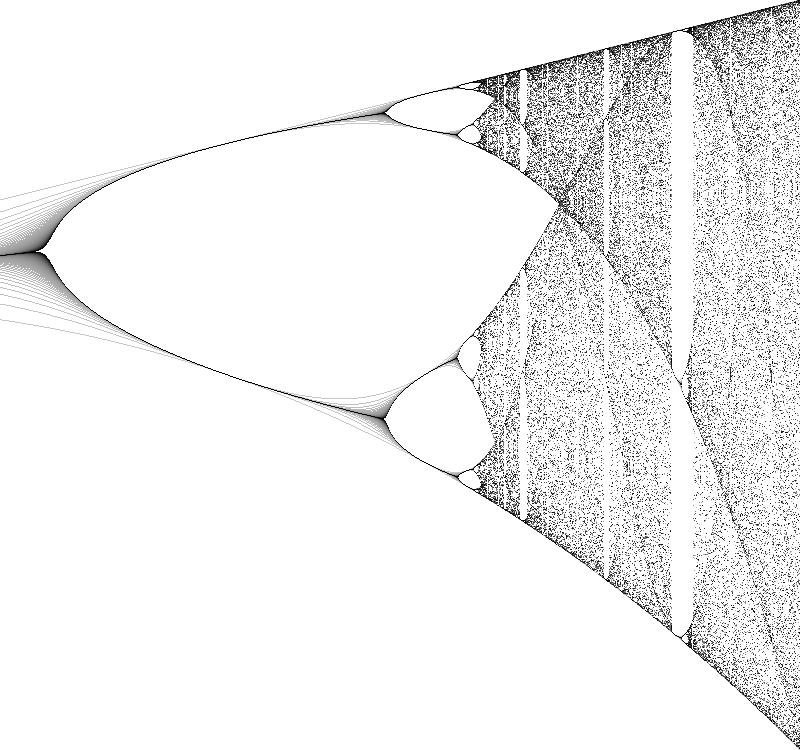
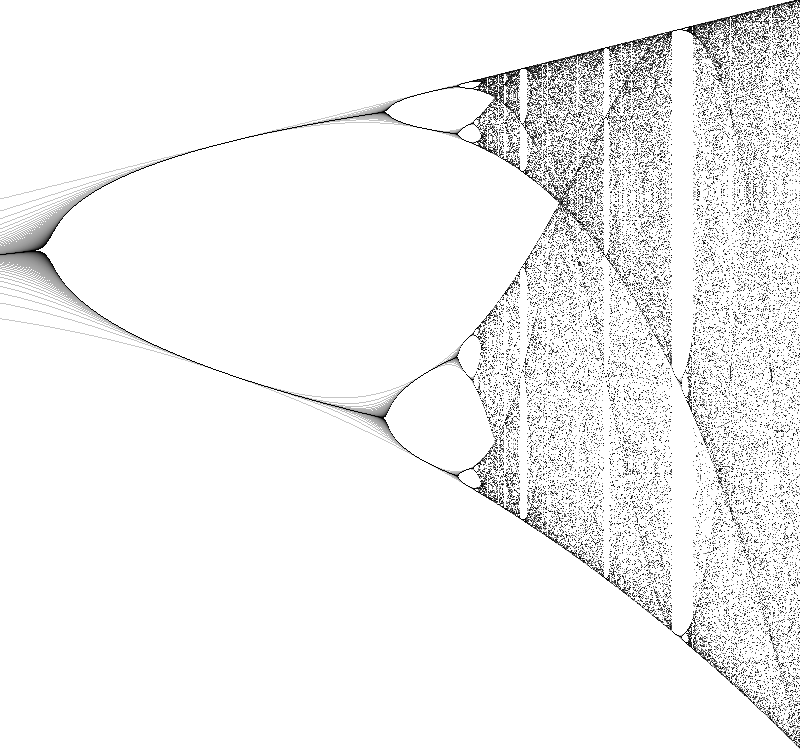
Rewrite logistic_map to py3

diff --git a/renderings/logistic_map/gen.py b/renderings/logistic_map/gen.py
@@ -1,14 +1,14 @@
 #!/usr/bin/python
 import PIL.Image
 
-for (name, w, h) in [('whole', 800, 200), ('detail', 800, 750)]:
-  image = PIL.Image.new('L',(w,h),255)
+for name, w, h in [('whole', 800, 200), ('detail', 800, 750)]:
+  image = PIL.Image.new('L', (w, h), 255)
   pixel = image.load()
 
-  for p in range(w):
-    r = 1. * p/h + (4-1.*w/h)
-    x = 0.5
+  for c in range(image.width):
+    r = 4 + (c - w) / h
+    x = .5
     for i in range(200):
-      x = r * x * (1-x)
-      pixel[p,x*h] = 200 - i
-  image.transpose(PIL.Image.FLIP_TOP_BOTTOM).save('logistic_map_' + name + '.png')
+      x = r * x * (1 - x)
+      pixel[c, h * (1 - x) - 1] = 200 - i
+  image.save('output/logistic_map_' + name + '.png')
